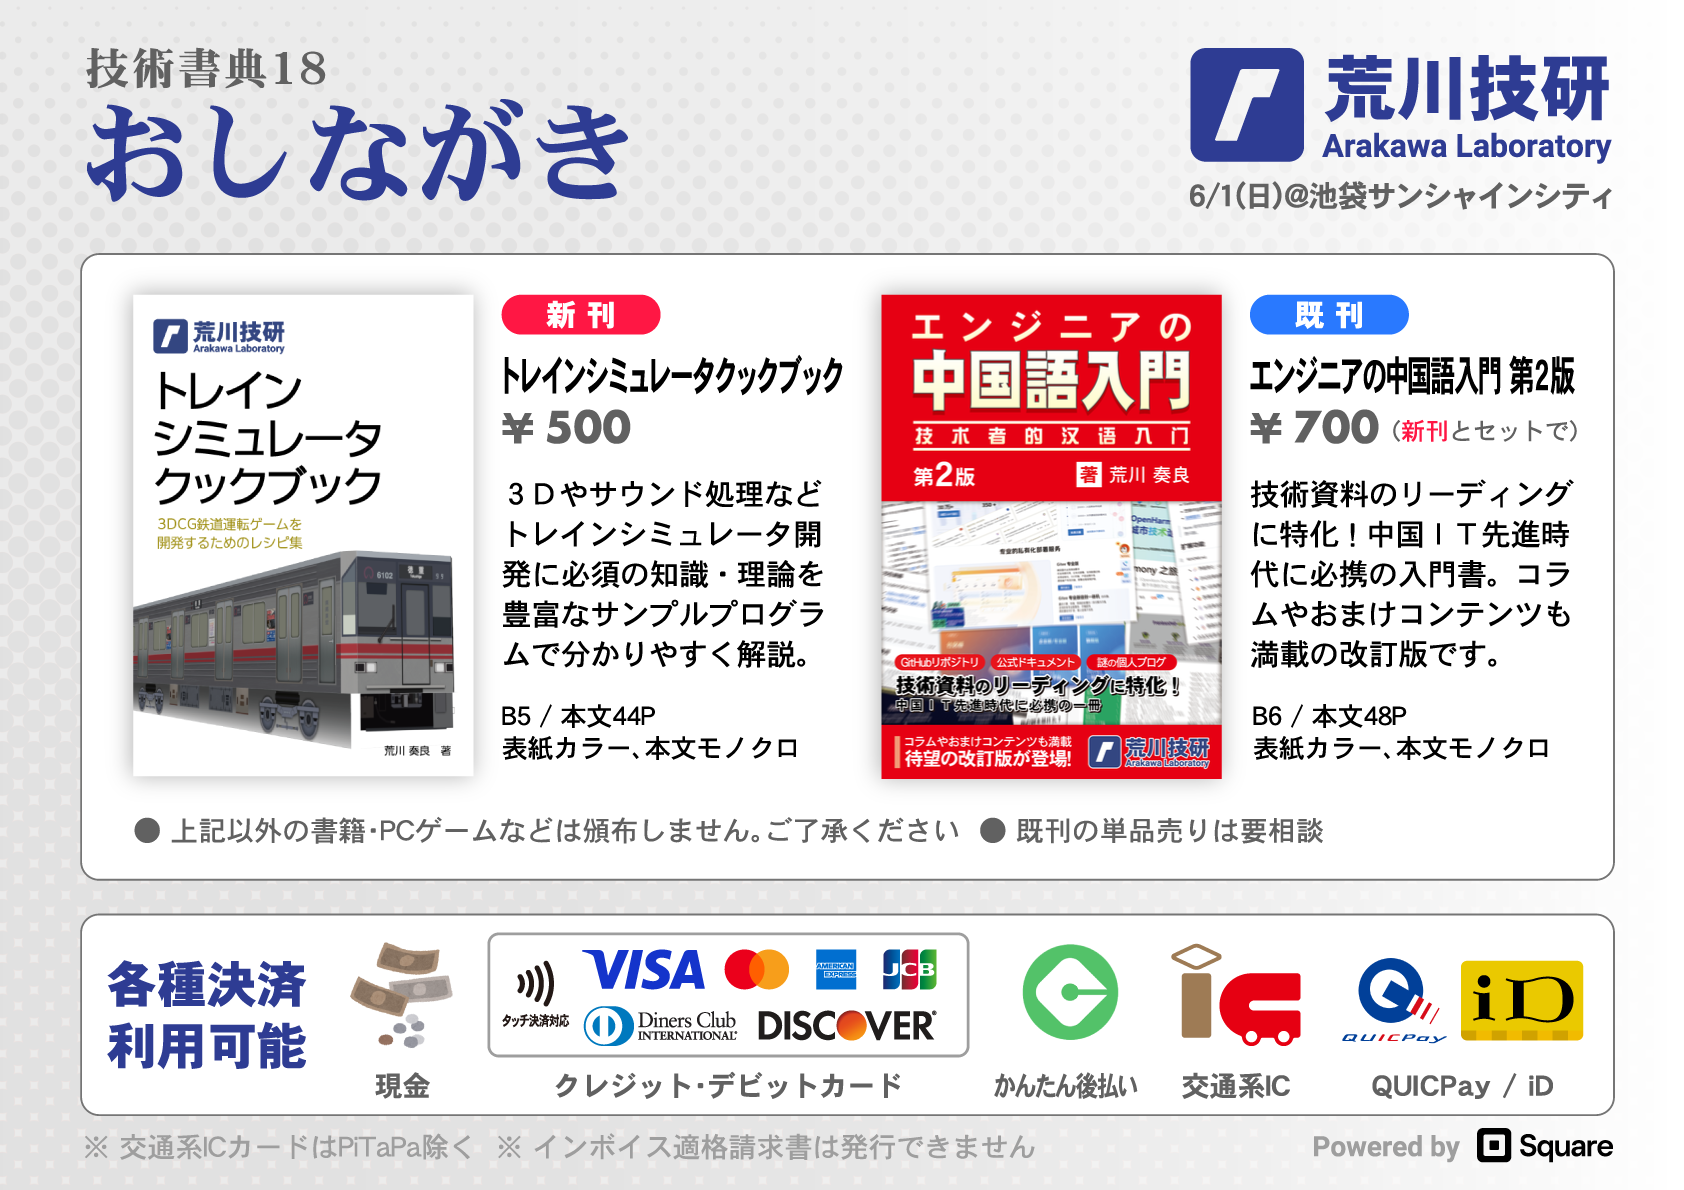
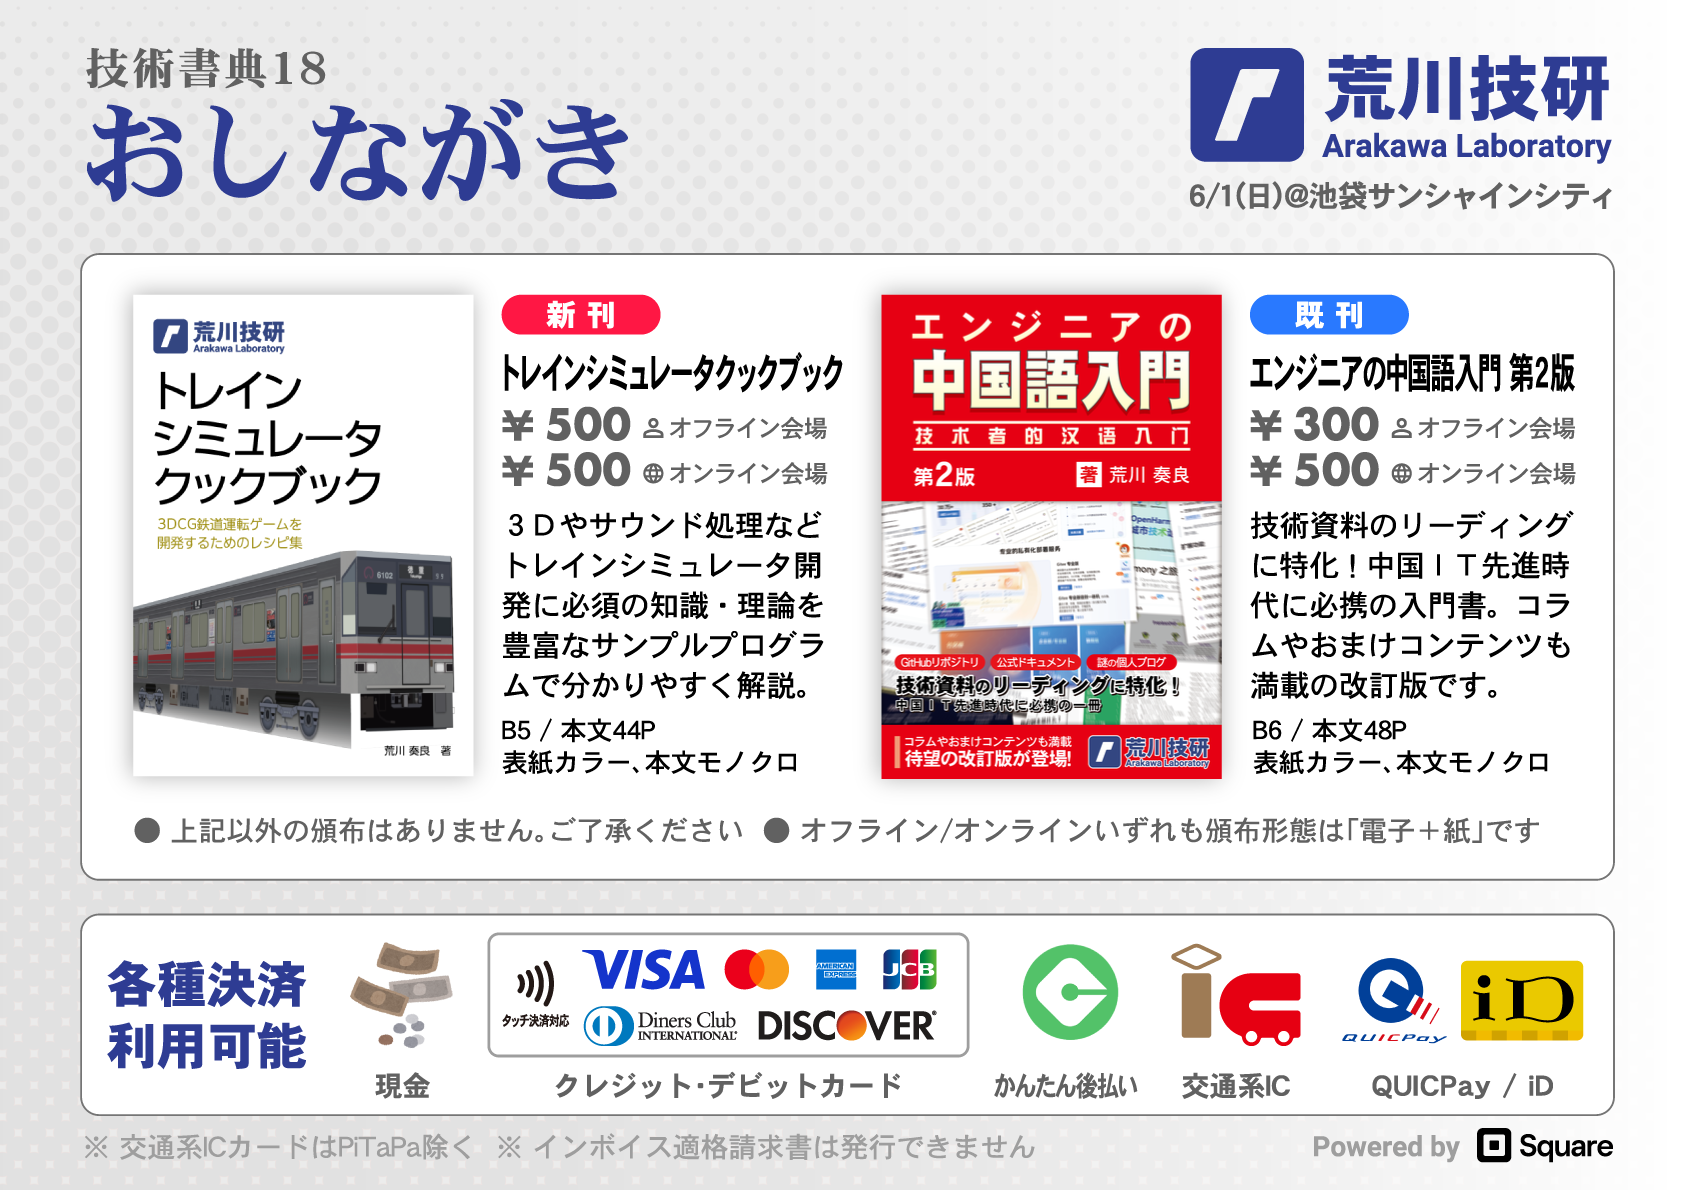
Update doujin

Changed region(s): [[0.2779, 0.2798, 0.4941, 0.6529], [0.7411, 0.2798, 0.9572, 0.6529], [0.1853, 0.684, 0.9264, 0.7151]]

diff --git a/html/doujin/index.html b/html/doujin/index.html
@@ -65,8 +65,10 @@
 			<div class="wrapper">
 				<h1>技術書典18</h1>
 				<p>
-					2025年6月1日（日）＠池袋サンシャインシティ 文化会館ビル2F
-					展示ホールD<br />
+					オフライン会場 : 2025年6月1日（日）＠池袋サンシャインシティ
+					文化会館ビル2F 展示ホールD<br />
+					オンライン会場 :
+					2025年5月31日（土）～2025年6月15日（日）＠技術書典オンラインマーケット<br />
 					こ06「荒川技研」(<a
 						href="https://techbookfest.org/assets/tbf18/images/circle-layout.png"
 						target="blank"
@@ -78,7 +80,14 @@
 					<img src="img/trainsim-cookbook.png" />
 				</div>
 				<p>
-					<b>新刊「トレインシミュレータクックブック」</b>　500円<br />
+					<b>新刊「トレインシミュレータクックブック」</b><br />
+					オフライン会場 500円 /
+					<a
+						href="https://techbookfest.org/product/idr035CEjVBg80x2vdxNzB"
+						target="blank"
+						>オンライン会場</a
+					>
+					500円<br />
 					B5 / 本文44ページ / 表紙カラー、本文モノクロ<br />
 					3Dやサウンド処理など、トレインシミュレータ開発に必須の知識・理論を豊富なサンプルプログラムで分かりやすく解説。
 				</p>
@@ -86,14 +95,23 @@
 					<img src="img/engineer-cn-v2.png" />
 				</div>
 				<p>
-					<b>既刊「エンジニアの中国語入門 第2版」</b>　700円
-					(新刊とセット。単品は要相談)<br />
+					<b>既刊「エンジニアの中国語入門 第2版」</b><br />
+					オフライン会場 300円 /
+					<a
+						href="https://techbookfest.org/product/4LbdtA2fbcwSKDLHutmp7T"
+						target="blank"
+						>オンライン会場</a
+					>
+					500円<br />
 					B6 / 本文48ページ / 表紙カラー、本文モノクロ<br />
 					技術資料のリーディングに特化!
-					中国IT先進時代に必携の入門書。コラムやおまけコンテンツも満載の改訂版です。
+					中国IT先進時代に必携の入門書。コラムやおまけコンテンツも満載の改訂版です。<br />
+					最低価格の都合上、オンライン会場の頒価を高く設定していますが、期間中は送料無料のためBOOTHより安く購入できます。<br />
+					オフラインで参加できない方も、この機会に是非お求めください。
 				</p>
 				<p>
 					・上記以外の頒布はありません。予めご了承ください。<br />
+					・オフライン会場/オンライン会場いずれも頒布形態は「電子+紙」です。<br />
 					・お支払いにはかんたん後払いアプリの他、現金/各種クレジットカード/交通系ICカード
 					(PiTaPa除く)/QUICpay/iDをご利用いただけます。
 				</p>
@@ -530,7 +548,7 @@
 				<a href="https://arkw.net/">
 					<img src="img/arakawa.svg" width="160" /> </a
 				><br />
-				最終更新日 : 2025年5月26日<br />
+				最終更新日 : 2025年5月31日<br />
 				(c) 2021-2025 Sora Arakawa all rights reserved.
 			</div>
 		</div>
